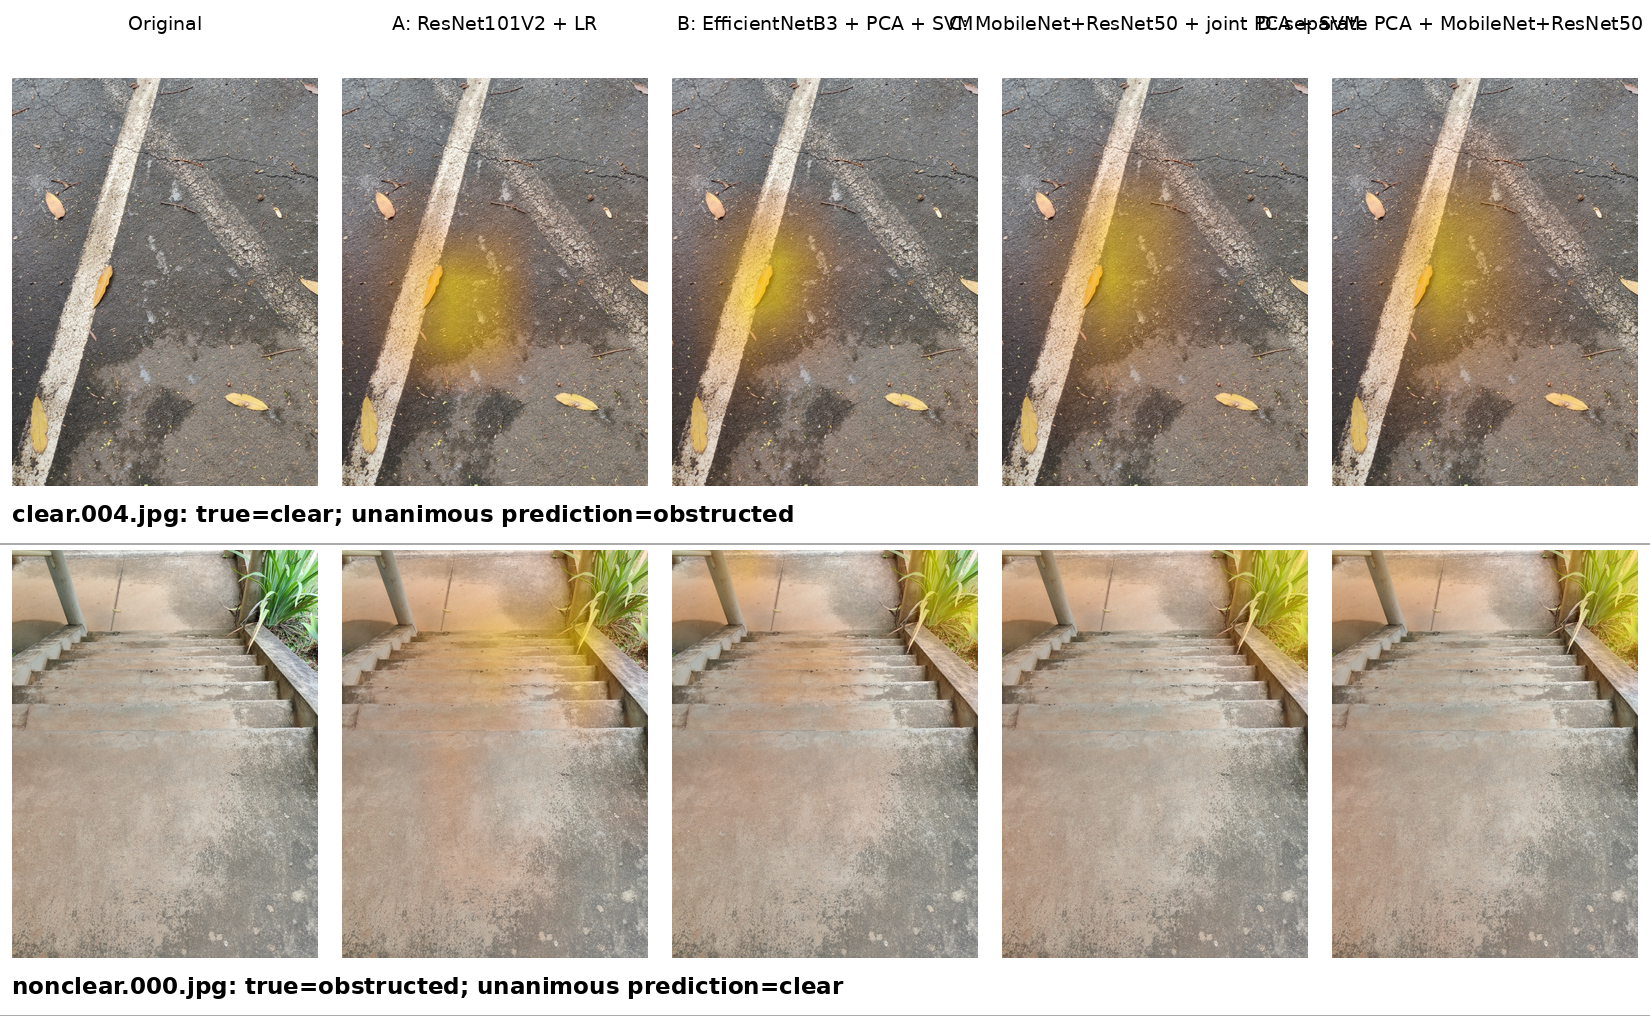
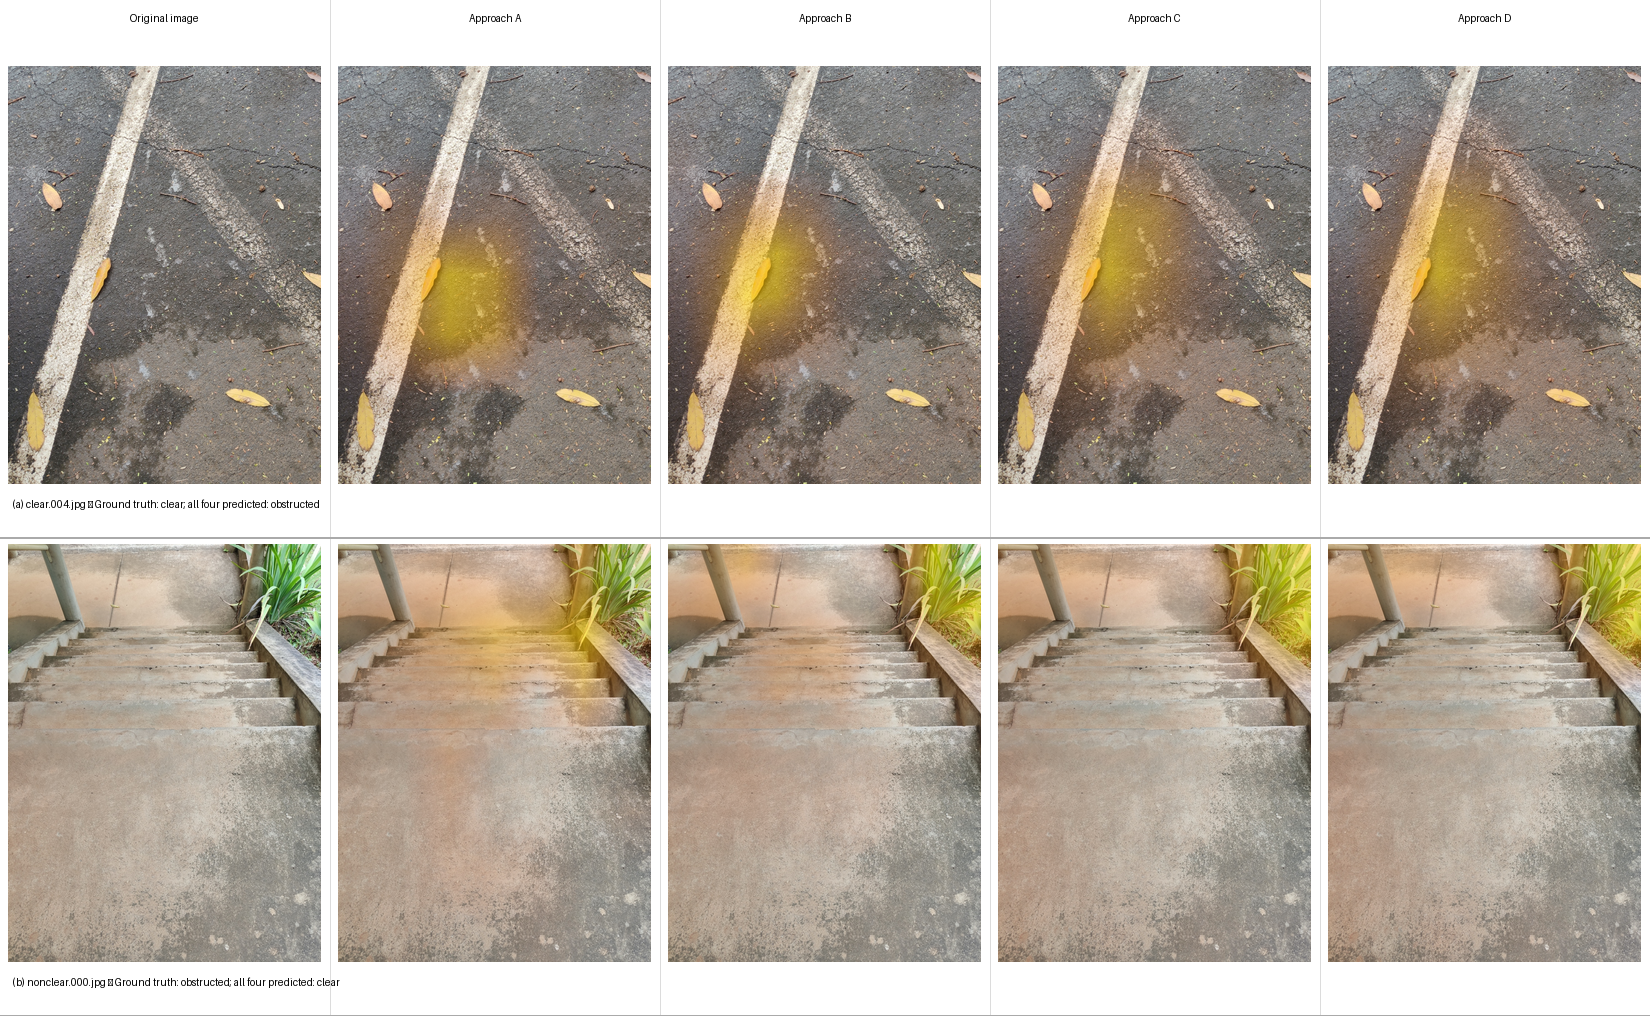
image space decision

diff --git a/scripts/build_decision_attribution.py b/scripts/build_decision_attribution.py
@@ -46,10 +46,10 @@ FINAL_CONV_SHAPES = {
 }
 
 DISPLAY_NAMES = {
-    "A": "A: ResNet101V2 + LR",
-    "B": "B: EfficientNetB3 + PCA + SVM",
-    "C": "C: MobileNet+ResNet50 + joint PCA + SVM",
-    "D": "D: separate PCA + MobileNet+ResNet50 + SVM",
+    "A": "Approach A",
+    "B": "Approach B",
+    "C": "Approach C",
+    "D": "Approach D",
 }
 
 STORED_SCORE_TOLERANCE = 5e-4
@@ -360,27 +360,30 @@ def make_panel(
     destination: Path,
 ):
     approaches = ["A", "B", "C", "D"]
-    cell_width, cell_height = 330, 420
-    header_height, label_height = 72, 52
+    cell_width, cell_height = 330, 430
+    header_height, label_height = 60, 48
     canvas = Image.new(
         "RGB",
         (cell_width * 5, header_height + (cell_height + label_height) * len(representative)),
         "white",
     )
     draw = ImageDraw.Draw(canvas)
-    title_font = _font(25, bold=True)
-    label_font = _font(23, bold=True)
-    small_font = _font(19)
-    headers = ["Original", *[DISPLAY_NAMES[item] for item in approaches]]
+    header_font = _font(30, bold=True)
+    label_font = _font(26, bold=True)
+    headers = ["Original image", *[DISPLAY_NAMES[item] for item in approaches]]
     for column, header in enumerate(headers):
         draw.multiline_text(
             (column * cell_width + cell_width / 2, 12),
             header,
             fill="black",
-            font=small_font,
+            font=header_font,
             anchor="ma",
             align="center",
+            spacing=3,
         )
+        if column:
+            x = column * cell_width
+            draw.line((x, 0, x, canvas.height), fill=(220, 220, 220), width=1)
 
     for row_index, sample in enumerate(representative.itertuples(index=False)):
         y = header_height + row_index * (cell_height + label_height)
@@ -397,9 +400,13 @@ def make_panel(
             "predicted_label"
         ].mode().iloc[0]
         predicted = "clear" if int(prediction) == 1 else "obstructed"
+        panel_letter = chr(ord("a") + row_index)
         draw.text(
             (12, y + cell_height + 8),
-            f"{sample.filename}: true={truth}; unanimous prediction={predicted}",
+            (
+                f"({panel_letter}) {sample.filename} — Ground truth: {truth}; "
+                f"all four predicted: {predicted}"
+            ),
             fill="black",
             font=label_font,
         )

diff --git a/README.md b/README.md
@@ -258,7 +258,8 @@ Outputs are written to `results/decision_attribution/`:
 | `selected_samples.csv` | Deterministically selected LOOCV consensus errors |
 | `attribution_validation.csv` | Stored, regenerated, and reconstructed decision scores |
 | `representative_samples.csv` | Images used in the article panel |
-| `decision_attribution_representative.png` | Two-row panel for the four finalists |
+| `decision_attribution_representative.png` | Two-row article panel for the four finalists |
+| `decision_attribution_all_consensus_errors.png` | Complete seven-image comparison panel |
 | `overlays/` | One overlay per selected image and approach |
 | `records/` | Validated per-image checkpoints used for safe resumption |
 | `attribution_manifest.json` | Method, input hashes, selection rule, and limitations |
